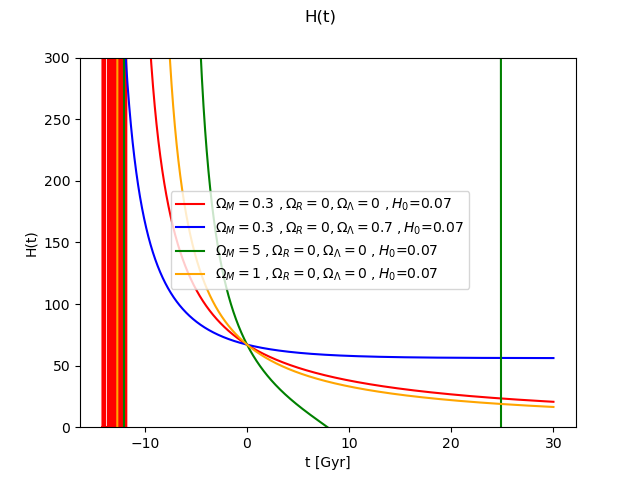
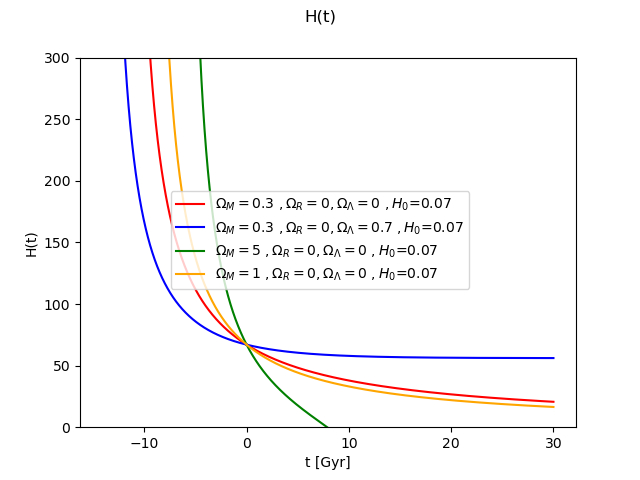
Fixed distance calculations for Om_K=0

diff --git a/main.py b/main.py
@@ -7,11 +7,12 @@ from matplotlib import pyplot as plt
 
 #TODO fiks dL for neg rot
 #Funker jo ikke for omega_K lik 0 ??
+#Fjerne k
 
 """ a(t) and H(t)-----------------------------------------------------------------"""
 def g(y, t, H0, Om_M, Om_R, Om_Lambda):
     a, aprime = y
-    dydt = [aprime, -(a/2)*H0**2*(Om_M/a**3+2*Om_R/a**4-2*Om_Lambda)]
+    dydt = [aprime, -(a/2)*H0**2*(Om_M/(a**3)+2*Om_R/(a**4)-2*Om_Lambda)]
     return dydt
 
 # def f(x,t,H0,Om_M,Om_R,Om_Lambda):
@@ -55,10 +56,16 @@ def a_and_H(y0,t1,t2,H0List,Om_MList,Om_RList,Om_LambdaList):
         a2=sol2List[i][:,0]
         adot1=sol1List[i][:,1]
         adot2=sol2List[i][:,1]
+
+        #x = x[~numpy.isnan(x)] remove nans?
+
         H1=(adot1/a1)*(3.086e22/(1e3*3600*24*365*10**9))
         H2=(adot2/a2)*(3.086e22/(1e3*3600*24*365*10**9))
         dH1=c/H1
         dH2=c/H2
+
+        #dH1 = dH1[~np.isnan(dH1)]
+        #dH2 = dH2[~np.isnan(dH2)]
 
         axa.plot(t1,a1, color=colors[i],label="$\Omega_M=$"+str(Om_MList[i])+" $, \Omega_R=$"+str(Om_RList[i])+
         "$, \Omega_\Lambda=$"+str(Om_LambdaList[i])+" $, H_0$="+str(round(H0List[i],2)))
@@ -91,8 +98,8 @@ def a_and_H(y0,t1,t2,H0List,Om_MList,Om_RList,Om_LambdaList):
     axdH.set_xlabel("t [Gyr]")
     axdH.set_ylabel("$d_H(t)$")
     axdH.set_yscale("log")
-    #axdH.set_ylim(0,300)
-    figdH.legend(loc="upper right")
+    axdH.set_ylim(1e04,1e09)
+    figdH.legend(loc="lower right")
     figdH.savefig("dH_fig")
 
     plt.show()
@@ -189,18 +196,23 @@ def integrateE(z,Om_R, Om_M, Om_Lambda, Om_K):
 def calculate_dL(z,Om_R, Om_M, Om_Lambda, Om_K,H0):
     #Eintegrated=integrate.quad(E,z[0],z[-1],(Om_R, Om_M, Om_Lambda, Om_K))
     Eintegrated=integrateE(z,Om_R, Om_M, Om_Lambda, Om_K)
-    print("E:",Eintegrated)
+    #print("E:",Eintegrated)
     #print(const.c*(1+z)/(H0*math.sqrt(Om_K)))
-    print(np.sinh(Eintegrated))
-    if Om_K>=0:
+    #print(np.sinh(Eintegrated))
+    if Om_K>0:
+        print("pos")
         return const.c*(1+z)/(H0*math.sqrt(Om_K))*np.sinh(math.sqrt(Om_K)*Eintegrated)
+    elif Om_K==0:
+        print("null")
+        return const.c*(1+z)/H0*Eintegrated
     else: #squareroot gives imaginary number, with i counteracted by the fact that sinh(ix)=isin(x)
         #return math.sqrt(abs(Om_K))*Eintegrated
+        print("neg")
         return const.c*(1+z)/(H0*math.sqrt(abs(Om_K)))*np.sin(math.sqrt(abs(Om_K))*Eintegrated) #denne er det noe rart med... skal vel egt være minustegn?
 
 
 def calculate_dA(z,dL):
-    return (1+np.power(z,-2))*dL
+    return (np.power(1+z,-2))*dL
 
 def plot_distance(z,ds,filename,dstring,Om_M,Om_R,Om_Lambda,H0): #ds a list
     #colors=[""]
@@ -254,14 +266,14 @@ def main():
     Om_Rs=[0,0,0,0]
     Om_Lambdas=[0,0.7,0,0]
 
-    k=1
+    k=0
 
     Nz=1000
-    z_min=-15
+    z_min=0
     z_max=15
     z=np.linspace(z_min,z_max,Nz)
 
-    Nt=1000
+    Nt=10000
     
     t_min=-14.15
     t_max=30
@@ -270,15 +282,11 @@ def main():
 
     y0=np.array([1,H0])
 
-    #distances(z,Om_Rs, Om_Ms, Om_Lambdas, H0s,k)
+    distances(z,Om_Rs, Om_Ms, Om_Lambdas, H0s,k)
 
-    Om_M = 0.3
-    Om_R = 0
-    Om_Lambda = 0.7
 
-    #calculate_a_H(y0,t1,t2,H0,Om_M,Om_R,Om_Lambda)
 
-    a_and_H(y0,t1, t2, H0s, Om_Ms,Om_Rs,Om_Lambdas)
+    #a_and_H(y0,t1, t2, H0s, Om_Ms,Om_Rs,Om_Lambdas)
 
 
 
